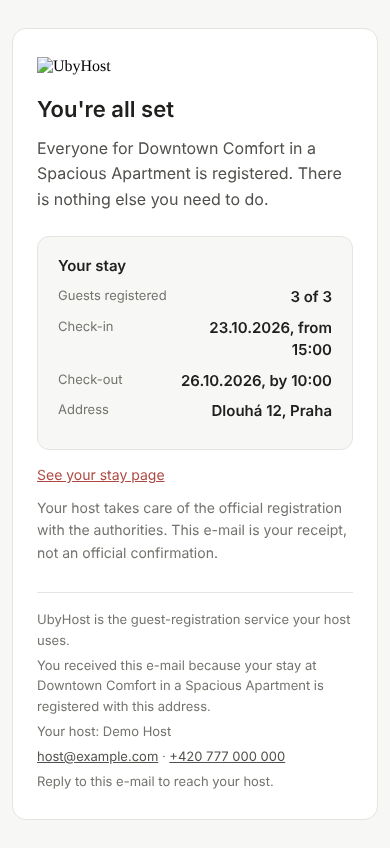
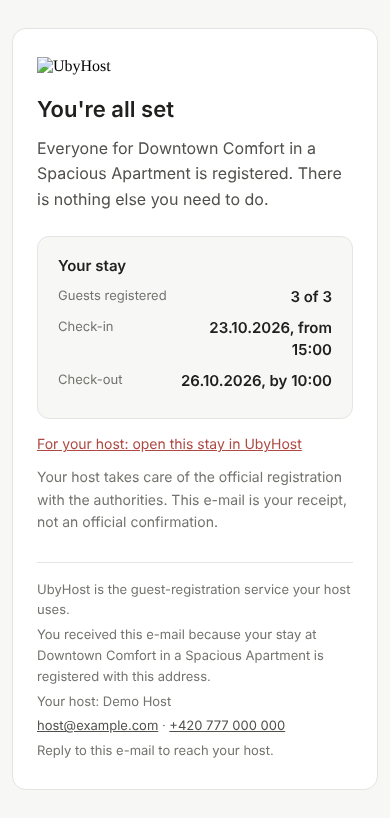
0387 addendum A5: re-render previews, report addendum
Claude-Session: https://claude.ai/code/session_01K9j9qshn6jTnqN2bAe4j8Z

diff --git a/docs/tasks/0387-report.md b/docs/tasks/0387-report.md
@@ -42,3 +42,9 @@ None.
 
 1. Review the screenshots, then open the PR and merge with `scripts/merge-pr-on-green.sh`.
 2. Deploy as usual.
+
+## Addendum A
+
+- The guest stay link is gone from the receipt; the only link is a host-only "open this stay in UbyHost" link (A1 to A3), and the address row is dropped (A6). Mail test set: 203 passed.
+- Previews re-rendered with `host_url` and no address (A5), with `UBYHOST_GUEST_LANGS=en,cs,uk`; the three PNGs are overwritten.
+- Open question: the footer still says "registered with this address" in all three languages (existing copy, not in the brief, not changed).
